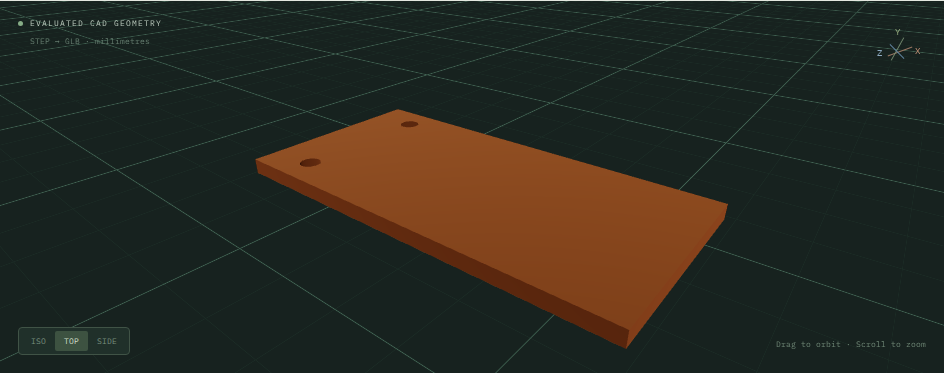
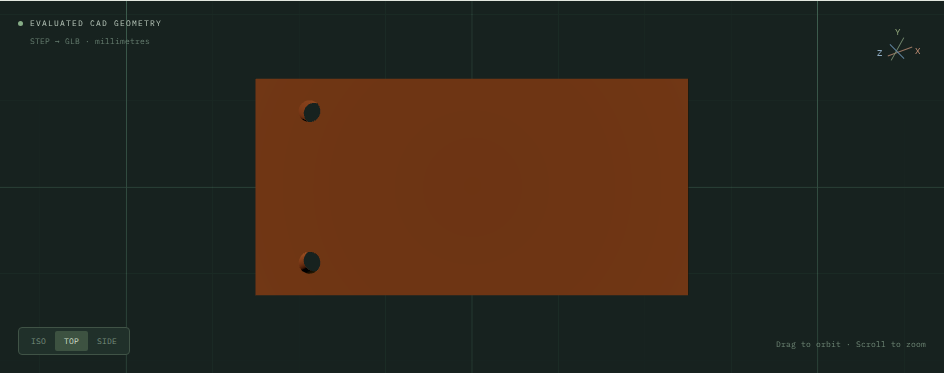
Wait for CAD camera fit before capturing alternate demo views

diff --git a/scripts/demo_capture.py b/scripts/demo_capture.py
@@ -87,6 +87,9 @@ def main():
             page.goto(args.url + "/" + target, wait_until="domcontentloaded", timeout=60000)
             expect(page.locator(".viewport-label")).to_contain_text("EVALUATED CAD GEOMETRY", timeout=60000)
             expect(page.get_by_test_id("cad-canvas")).to_have_attribute("data-geometry-ready", "true")
+            # Bounds animates the initial fit after GLB readiness; let it finish
+            # before selecting a camera, otherwise it overwrites the selected view.
+            page.wait_for_timeout(1500)
             page.get_by_role("button", name=camera, exact=True).click()
             page.wait_for_timeout(1200)
             page.get_by_test_id("cad-canvas").hover()
